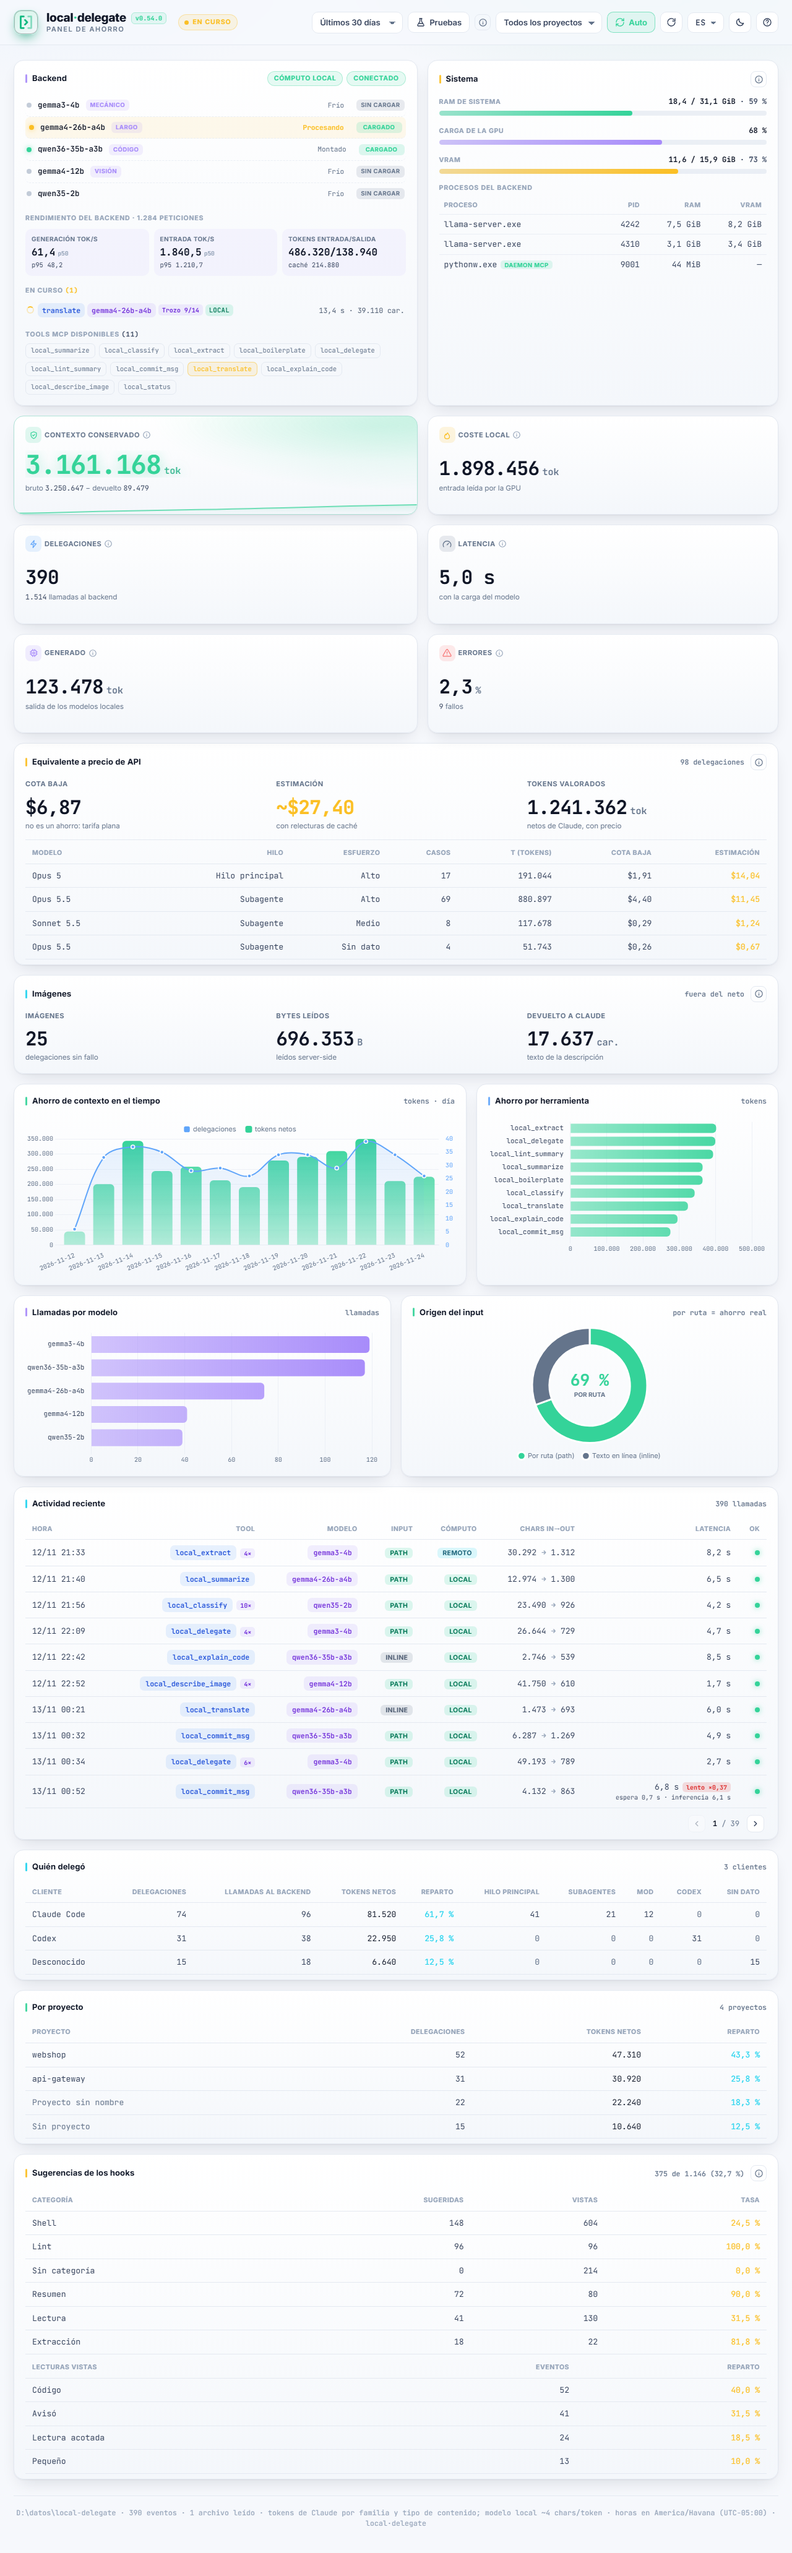
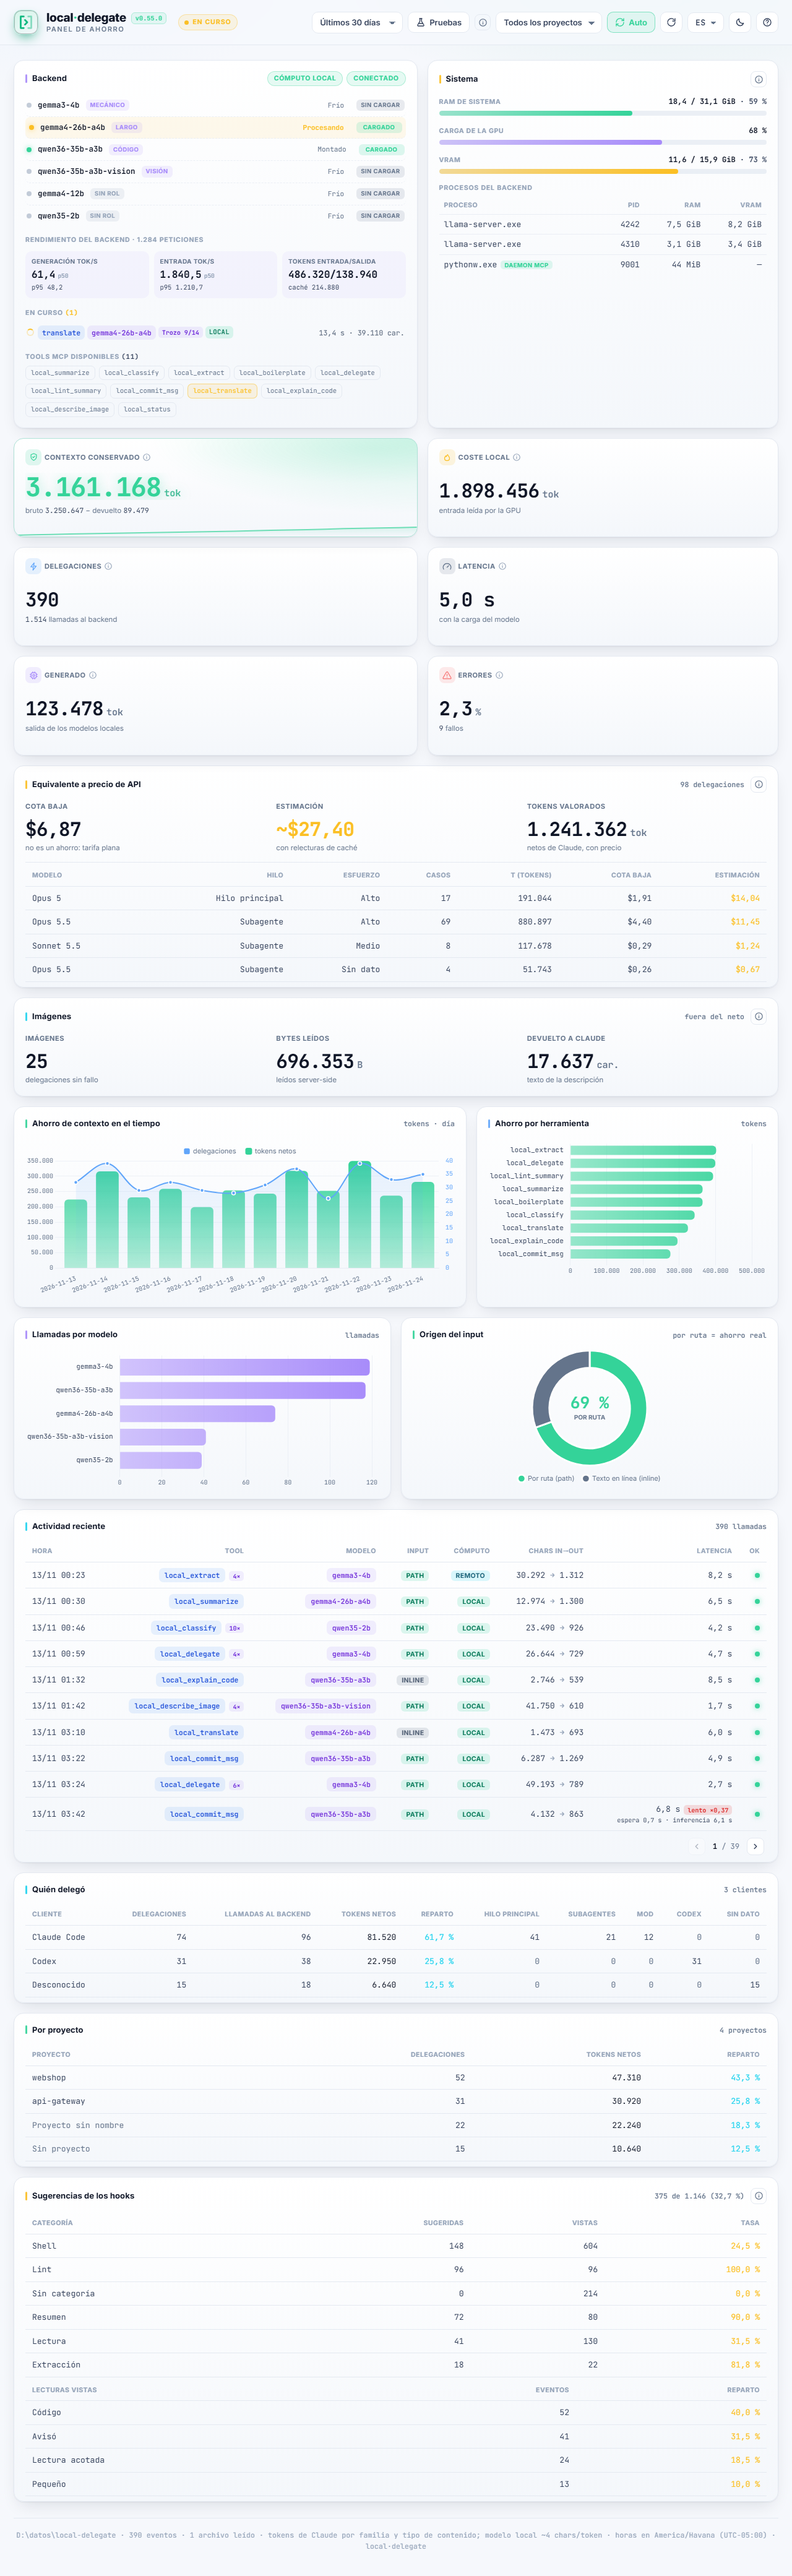
chore: release v0.55.0 (#723)
* chore: release v0.55.0

- Versión 0.55.0 en pyproject, server.json, plugin y uv.lock; huellas de hooks unidas.
- CHANGELOG: sección [0.55.0] (versión menor: cambia el modelo de visión por
  defecto) con cómo migrar.
- Wiki, recetas y frontera del corpus: «desde la 0.54.1» pasa a 0.55.0, la
  versión que de verdad trae el cambio de visión.
- Capturas del panel regeneradas con la 0.55.0.
- SDD: cerrados vision-default-qwen36 y codex-hooks-powershell;
  codex-session-attribution y codex-read-summary-write-guard siguen esperando
  la prueba real con Codex.

* test(locate): cada ronda de cpu_growth mide al menos 0,2 s de CPU

En el runner de Windows del #723 el lado pequeño midió 3 tics del reloj de 15,6 ms con 10 repeticiones fijas: un tic de error era un tercio de la medida y un coste lineal salió con crecimiento 30 (tope 25). Ahora cada ronda repite hasta gastar 0,2 s de CPU (~13 tics). Control: una función cuadrática sigue dando más de 60.

* test(locate): cpu_growth alterna pequeño y grande por ronda y se queda con el menor cociente

Con la carga de los otros workers de pytest, los runners de Windows y Ubuntu del #723 dieron 27-40 para costes que en la PC miden 10-12. Ahora cada una de 5 rondas mide los dos lados seguidos y gana el cociente más bajo; el tope pasa de 25 a 33, la media geométrica entre lineal (~10) y cuadrático (~100). Control: una función cuadrática da 105.

* test(locate): la línea hostil mide de 20 000 a 200 000 caracteres
[…]

diff --git a/tests/linear_cost.py b/tests/linear_cost.py
@@ -3,9 +3,17 @@
 An absolute ceiling in seconds measures the runner: the same code took 0.5 s of CPU on the dev PC
 and 1.7 s on a CI runner. The ratio between the CPU time of a large input and that of one ten times
 smaller does not depend on the runner: about 10 when the cost is linear, about 100 when it is
-quadratic. Each side is the best of several rounds, because another process on the same core
-inflates one round, never all; the small side runs several times per round so that the coarse
-clock of Windows (15.6 ms) does not decide the ratio.
+quadratic.
+
+How the ratio is taken, after the CI of #723 gave 27 to 40 for costs that measure 10 to 12 on the
+dev PC (Windows and Ubuntu runners, with the other pytest workers on the same cores):
+
+- each round measures the small input and then the large one, so both sides see the same load,
+  and the round with the lowest ratio wins: load inflates one round, never all, and a quadratic
+  cost gives about 100 in every round;
+- each side repeats its input until it has spent `MIN_ROUND_SECONDS` of CPU, so that the coarse
+  clock of Windows (15.6 ms) does not decide the ratio: with a fixed 10 repeats the small side
+  measured 3 ticks and one tick of error was a third of it.
 """
 
 from __future__ import annotations
@@ -14,29 +22,35 @@ import time
 from collections.abc import Callable
 
 SIZE_RATIO = 10
-# linear gives ~10 (a bit more for the caches of a larger input); quadratic gives ~100
-MAX_GROWTH = 25.0
+# linear gives ~10 (a bit more for the caches of a larger input); quadratic gives ~100. The
+# ceiling is their geometric mean, so a loaded runner has the same margin as a quadratic regression.
+MAX_GROWTH = 33.0
+# at least ~13 ticks of the Windows clock per round, so one tick is under 8 % of the measure
+MIN_ROUND_SECONDS = 0.2
 
 
-def _best_cpu(run: Callable[[], object], repeats: int, rounds: int) -> float:
-    best = float("inf")
-    for _ in range(rounds):
-        started = time.process_time()
-        for _ in range(repeats):
-            run()
-        best = min(best, (time.process_time() - started) / repeats)
-    return best
+def _cpu_per_run(run: Callable[[], object]) -> float:
+    count = 0
+    started = time.process_time()
+    while True:
+        run()
+        count += 1
+        elapsed = time.process_time() - started
+        if elapsed >= MIN_ROUND_SECONDS:
+            return elapsed / count
 
 
 def cpu_growth(
     run_small: Callable[[], object],
     run_big: Callable[[], object],
     *,
-    rounds: int = 3,
-    small_repeats: int = 10,
+    rounds: int = 5,
 ) -> tuple[float, float, float]:
-    """(CPU of one small run, CPU of one big run, big / small), each the best of `rounds`."""
+    """(CPU of one small run, CPU of one big run, big / small) of the round with the lowest ratio."""
     run_small()  # warm up: imports and compiled regexes do not count on either side
-    small = _best_cpu(run_small, small_repeats, rounds)
-    big = _best_cpu(run_big, 1, rounds)
-    return small, big, big / small
+    measured = []
+    for _ in range(rounds):
+        small = _cpu_per_run(run_small)
+        big = _cpu_per_run(run_big)
+        measured.append((small, big, big / small))
+    return min(measured, key=lambda m: m[2])

diff --git a/tests/test_corpus.py b/tests/test_corpus.py
@@ -371,7 +371,7 @@ def test_an_undeclared_model_change_is_still_an_error(monkeypatch):
     Control: without the declaration the same difference is an error again."""
     notices: list[str] = []
     assert build.check_versioned(DESTINATION, notices=notices) == []
-    assert any("modelo por defecto de la 0.54.1" in n for n in notices), notices
+    assert any("modelo por defecto de la 0.55.0" in n for n in notices), notices
     monkeypatch.setattr(build, "MODEL_BOUNDARIES", {})
     errors = build.check_versioned(DESTINATION)
     assert "production_config ya no coincide con config.py" in errors

diff --git a/tests/test_locate_hostile_input.py b/tests/test_locate_hostile_input.py
@@ -27,7 +27,9 @@ HOSTILE_UNITS = [
     ("unit", "name"), [(u, n) for _, u, n in HOSTILE_UNITS], ids=[h[0] for h in HOSTILE_UNITS]
 )
 def test_a_hostile_line_costs_linearly(unit, name):
-    small_size = 5_000
+    # 20 000 and not 5 000: a 5 KB line fits the L1 cache of a CI runner and the 50 KB one does
+    # not, so there the ratio measured the cache (27-45 in #723) instead of the cost (10 here).
+    small_size = 20_000
     small_text = unit * (small_size // len(unit))
     big_text = unit * (small_size * SIZE_RATIO // len(unit))
     small, big, growth = cpu_growth(

diff --git a/scripts/build_corpus.py b/scripts/build_corpus.py
@@ -734,7 +734,7 @@ _PROMPT_BOUNDARY_FIELDS = frozenset({"system", "max_tokens"})
 # regeneran (sus respuestas se midieron con el modelo viejo) y la diferencia se dice como aviso.
 # vision-default-qwen36 (#699): el rol `vision` pasa a Qwen3.6 35B-A3B con `--mmproj`.
 MODEL_BOUNDARIES: dict[str, dict[str, tuple[str, str]]] = {
-    "0.54.1": {"vision": ("gemma4-12b", "qwen36-35b-a3b-vision")},
+    "0.55.0": {"vision": ("gemma4-12b", "qwen36-35b-a3b-vision")},
 }
 
 

diff --git a/docs/wiki/Codex-capabilities.md b/docs/wiki/Codex-capabilities.md
@@ -25,13 +25,13 @@ entrada del modelo, pero ninguna fila se da por buena en Desktop.
 | --- | --- | --- | --- | --- |
 | Servidor MCP | entrada en `~/.claude.json` | `[mcp_servers.local-delegate]` en `~/.codex/config.toml` | implementado, configurado, cargado | `install.codex_mcp_block`; `doctor` (`scaffold.mcp_codex`); Codex arranca el servidor y, con las tools directas, las pone en la entrada del modelo (`codex debug prompt-input`, abajo); sin ellas quedan tras `tool_search` |
 | Instrucciones | bloque en `CLAUDE.md` y skill | bloque en `~/.codex/AGENTS.md` | implementado, configurado | `install`, componente `memory` |
-| Hooks | plugin `local-delegate@local-delegate` | `~/.codex/hooks.json`: cuatro hooks, `UserPromptSubmit` (`codex-prompt`), `SubagentStart` (`codex-subagent-start`) y dos de `PreToolUse` (`codex-tool-guard` sobre shell, `apply_patch` y lecturas MCP; `codex-mcp-call` sobre las tools de local-delegate) | implementado, configurado (corren solo tras aprobarlos en `/hooks`); cargado y probado quedan para la prueba en vivo | [Hooks de Codex](Integration-install.md#hooks-de-codex), `codex_hooks.SPECS`; `doctor` dice cuántos están aprobados y cuándo despachó cada uno |
+| Hooks | plugin `local-delegate@local-delegate` | `~/.codex/hooks.json`: cuatro hooks, `UserPromptSubmit` (`codex-prompt`), `SubagentStart` (`codex-subagent-start`) y dos de `PreToolUse` (`codex-tool-guard` sobre shell, `apply_patch` y lecturas MCP; `codex-mcp-call` sobre las tools de local-delegate) | implementado, configurado (corren solo tras aprobarlos en `/hooks`), cargado y probado (desde la 0.55.0, #718: Codex CLI 0.171 en Windows despacha los cuatro) | [Hooks de Codex](Integration-install.md#hooks-de-codex), `codex_hooks.SPECS`; `doctor` dice cuántos están aprobados y cuándo despachó cada uno |
 | Tools fijadas | `mod/pinned-tools.js`: 4 tools con `isDeferred: false` | `omit_tools_from = ["deferred"]` en la tabla del servidor; **todas** las tools del servidor, no una a una | implementado (opcional), configurado, cargado (`codex debug prompt-input`); el efecto en una sesión real queda para la prueba en vivo | ver [Tools directas](#tools-directas-en-vez-de-tool_search) |
 | Comandos sin modelo | `mod/commands.js`: `/local-summarize`, `/local-commit`, `/local-lint` | no hay slash commands de usuario; solo `!comando` (shell sin turno del modelo) | no disponible | ver [Comandos sin modelo](#comandos-sin-modelo) |
 | Banda de estado | `mod/status.js`: `ui.render` sobre el prompt | `/statusline` y `tui.status_line`: lista de campos fijos de Codex | no disponible | ver [Barra de estado](#barra-de-estado) |
 | Panel de ahorro | panel web del daemon | el mismo panel web (`http://127.0.0.1:9393/`) | implementado (no depende del cliente) | [Savings & metrics](Savings-and-metrics.md) |
-| Atribución por sesión | hook `record_call.py` (`PreToolUse`) | `_meta` de cada llamada MCP (`callId`, `sessionId`) más la nota del hook `codex-mcp-call` (`PreToolUse`) | implementado, configurado (desde la 0.53.0); probado queda para la prueba en vivo | #669; [Hooks de Codex](Integration-install.md#hooks-de-codex) («Telemetría global y atribución por sesión»); [Savings & metrics](Savings-and-metrics.md#delegaciones-de-codex) |
-| Lectura automática y guard de escritura | mod de lectura y hooks de lectura | hook `codex-tool-guard` (`PreToolUse` con `permissionDecision: "deny"`) sobre shell, `apply_patch` y lecturas MCP | implementado, configurado (desde la 0.53.0); probado queda para la prueba en vivo con el centinela | #670; [Resumen de lecturas y guard de escritura](Integration-install.md#resumen-de-lecturas-y-guard-de-escritura-en-codex) |
+| Atribución por sesión | hook `record_call.py` (`PreToolUse`) | `_meta` de cada llamada MCP (`callId`, `sessionId`) más la nota del hook `codex-mcp-call` (`PreToolUse`) | implementado, configurado (desde la 0.53.0), probado con Codex CLI 0.171 en Windows (0.55.0) | #669; [Hooks de Codex](Integration-install.md#hooks-de-codex) («Telemetría global y atribución por sesión»); [Savings & metrics](Savings-and-metrics.md#delegaciones-de-codex) |
+| Lectura automática y guard de escritura | mod de lectura y hooks de lectura | hook `codex-tool-guard` (`PreToolUse` con `permissionDecision: "deny"`) sobre shell, `apply_patch` y lecturas MCP | implementado, configurado (desde la 0.53.0), probado con el centinela en Codex CLI 0.171 en Windows (0.55.0: lectura entera resumida, escritura por shell rechazada hasta leer un tramo literal, #724) | #670; [Resumen de lecturas y guard de escritura](Integration-install.md#resumen-de-lecturas-y-guard-de-escritura-en-codex) |
 
 ## Tools directas en vez de `tool_search`
 

diff --git a/CHANGELOG.md b/CHANGELOG.md
@@ -6,7 +6,11 @@ y el proyecto usa [Versionado Semántico](https://semver.org/lang/es/).
 
 ## [Unreleased]
 
+## [0.55.0] - 2026-11-23
+
 ### Cambiado
+
+Versión menor: cambia el modelo de visión por defecto (#699, #721).
 
 **Cómo migrar.** Si tu catálogo de llama-swap no tiene la entrada `qwen36-35b-a3b-vision`, pon
 `LOCAL_DELEGATE_MODEL_VISION=gemma4-12b` (o añade la entrada: ver `docs/recipes/llama-swap-vision.md`).
@@ -67,6 +71,20 @@ el modelo nuevo.
   línea con la forma vieja. Tras `local-delegate update` hay que aprobar los hooks otra vez en
   `/hooks`, porque la línea cambió. El plazo de las tools MCP de Codex ya es de 300 s por defecto,
   así que `install` sigue sin escribir `tool_timeout_sec`.
+- **Test inestable en Windows: `test_a_hostile_line_costs_linearly` mide el coste, no el reloj**
+  (#727). Comparaba el tiempo de pared de una línea hostil corta y otra larga, y en Windows el
+  reloj y la caché lo hacían fallar de vez en cuando. Ahora mide tiempo de CPU, cada ronda dura al
+  menos 0,2 s, alterna pequeño y grande, se queda con el menor cociente y la línea va de 20 000 a
+  200 000 caracteres. Solo cambia el test.
+
+### Documentación
+
+- La matriz de capacidades de Codex (`docs/wiki/Codex-capabilities.md`) pasa a «probado» en las
+  filas de hooks, atribución por sesión y resumen de lecturas con guard de escritura, tras la prueba
+  con Codex CLI 0.171 real en Windows (#669, #670, #718, #724).
+- Cerrados los SDD que quedaban abiertos de jornadas anteriores (`codex-session-attribution` y tres
+  más) y los de esta versión; `delegacion-precisa-y-fiable` sigue abierto hasta el corte de P-4
+  (#725, #726).
 
 ## [0.54.0] - 2026-11-23
 
@@ -5461,7 +5479,8 @@ los ficheros de datos. Lo que lee el usuario sigue en español.
 - Empaquetado para PyPI (`local-delegate-mcp`) ejecutable con `uvx`; `server.json` para el
   registro oficial de MCP.
 
-[Unreleased]: https://github.com/ZahiriNatZuke/local-delegate/compare/v0.54.0...HEAD
+[Unreleased]: https://github.com/ZahiriNatZuke/local-delegate/compare/v0.55.0...HEAD
+[0.55.0]: https://github.com/ZahiriNatZuke/local-delegate/compare/v0.54.0...v0.55.0
 [0.54.0]: https://github.com/ZahiriNatZuke/local-delegate/compare/v0.53.0...v0.54.0
 [0.53.0]: https://github.com/ZahiriNatZuke/local-delegate/compare/v0.52.0...v0.53.0
 [0.52.0]: https://github.com/ZahiriNatZuke/local-delegate/compare/v0.51.0...v0.52.0

diff --git a/.sdd/changes/codex-read-summary-write-guard/verification.md b/.sdd/changes/codex-read-summary-write-guard/verification.md
@@ -60,3 +60,20 @@ Without a declaration, list what was run. Never invent a command. -->
 - Pasa: `cat` de prosa grande bloqueado y sustituido por el resumen; el texto literal no entra al transcript; `apply_patch` sin lectura literal rechazado; tras `Get-Content -TotalCount 40`, aceptado (estado `range [1, 40]`).
 - Falla: una escritura de PowerShell con `[System.IO.File]::WriteAllText` y la ruta en una variable (`$p`) no la ve `write_targets`; el cambio pasó sin lectura literal (#724). Este SDD sigue en `result-review` hasta que se cierre #724.
 - El criterio «no sabe la palabra rara» no discrimina con el centinela de párrafos repetidos: el resumen la menciona porque es lo único distinto; el que discrimina es la ausencia del texto literal en el transcript.
+
+## Prueba con Codex real (2026-11-23, 19:33 a 19:35 hora de Uruguay)
+
+Codex CLI 0.171.0 en Windows sobre el `~/.codex` real, `main` en `92839abd` instalado con
+`uv tool install --force --no-cache ".[llamaswap]"`, `doctor` con los hooks de Codex aprobados 4 de 4,
+ventana `test-window` `codex-guard-shell`. Centinela `.md` de 201 líneas (~20 KB) en una carpeta
+temporal; `codex exec --json -c 'sandbox_mode="workspace-write"'` y `codex exec resume` en la misma
+sesión:
+
+| Paso | Esperado | Visto |
+| --- | --- | --- |
+| `cat centinela.md` | denegado con el resumen como motivo | `Command blocked by PreToolUse hook: Resumen de … hecho por el modelo local …` |
+| `[System.IO.File]::WriteAllText($p, …)` con `$p='centinela.md'` | rechazado | `… solo se ha leido resumido: antes de modificarlo, lee literal el tramo …`; fichero sin cambiar |
+| control: `WriteAllText('otro.md', …)` | pasa | exit 0, fichero escrito |
+| `Get-Content centinela.md -TotalCount 40` y luego el mismo `WriteAllText` | pasa | exit 0; primera línea cambiada |
+
+Ventana cerrada y centinela borrado tras la prueba.

diff --git a/.sdd/changes/codex-guard-shell-writes/verification.md b/.sdd/changes/codex-guard-shell-writes/verification.md
@@ -44,3 +44,20 @@ Without a declaration, list what was run. Never invent a command. -->
 - Límites conocidos (documentados en la wiki): rutas que no se saben sin ejecutar, `-EncodedCommand`, `StreamWriter`, `[IO.File]::Open` con modo, escrituras de .NET anidadas, `perl -i`, `python -c`, `dd`, `truncate`; los borrados no se tocan.
 - La revisión de dos jueces (review.md) llevó a 7 arreglos con sus tests; dos mutantes nuevos (lecturas envueltas canalizadas, comillas dobles) tumbados por sus tests.
 - El cambio de `herestring_spans` toca `read_classifier` (Claude Code) sin cambiar su resultado: test de equivalencia con 5 000 textos aleatorios.
+
+## Prueba con Codex real (2026-11-23, 19:33 a 19:35 hora de Uruguay)
+
+Codex CLI 0.171.0 en Windows sobre el `~/.codex` real, `main` en `92839abd` instalado con
+`uv tool install --force --no-cache ".[llamaswap]"`, `doctor` con los hooks de Codex aprobados 4 de 4,
+ventana `test-window` `codex-guard-shell`. Centinela `.md` de 201 líneas (~20 KB) en una carpeta
+temporal; `codex exec --json -c 'sandbox_mode="workspace-write"'` y `codex exec resume` en la misma
+sesión:
+
+| Paso | Esperado | Visto |
+| --- | --- | --- |
+| `cat centinela.md` | denegado con el resumen como motivo | `Command blocked by PreToolUse hook: Resumen de … hecho por el modelo local …` |
+| `[System.IO.File]::WriteAllText($p, …)` con `$p='centinela.md'` | rechazado | `… solo se ha leido resumido: antes de modificarlo, lee literal el tramo …`; fichero sin cambiar |
+| control: `WriteAllText('otro.md', …)` | pasa | exit 0, fichero escrito |
+| `Get-Content centinela.md -TotalCount 40` y luego el mismo `WriteAllText` | pasa | exit 0; primera línea cambiada |
+
+Ventana cerrada y centinela borrado tras la prueba.

diff --git a/docs/recipes/llama-swap-blackwell.md b/docs/recipes/llama-swap-blackwell.md
@@ -24,7 +24,7 @@ VRAM real medida (ctx 8k, incluye ~1,5 GB de Windows): `gemma3-4b` ~4,8 GB · `l
 | `LOCAL_DELEGATE_MODEL_MECHANICAL` | `gemma3-4b` | Gemma 3 4B Q4_K_M |
 | `LOCAL_DELEGATE_MODEL_LONG` | `gemma4-26b-a4b` | Gemma 4 26B-A4B (MoE, con `-ncmoe`) |
 | `LOCAL_DELEGATE_MODEL_CODE` | `qwen36-35b-a3b` | Qwen3.6 35B-A3B (MoE, con `-ncmoe`) |
-| `LOCAL_DELEGATE_MODEL_VISION` | `qwen36-35b-a3b-vision` | Qwen3.6 35B-A3B + `--mmproj` (desde la 0.54.1; ligera: `gemma4-12b`, Gemma 4 12B, con `LOCAL_DELEGATE_MODEL_VISION=gemma4-12b`) |
+| `LOCAL_DELEGATE_MODEL_VISION` | `qwen36-35b-a3b-vision` | Qwen3.6 35B-A3B + `--mmproj` (desde la 0.55.0; ligera: `gemma4-12b`, Gemma 4 12B, con `LOCAL_DELEGATE_MODEL_VISION=gemma4-12b`) |
 
 Son los defaults del paquete desde la 0.28.0: con estos ids no necesitas configurar nada.
 `local-delegate init-llamaswap` agrupa esas entradas de tu `config.yaml` (no las crea). **El `config.yaml` de abajo y las

diff --git a/docs/wiki/Tools.md b/docs/wiki/Tools.md
@@ -659,7 +659,7 @@ Cuatro perfiles, todos cambiables por entorno (ver [Configuration](Configuration
 | código | `LOCAL_DELEGATE_MODEL_CODE` | `qwen36-35b-a3b` | boilerplate, commit-msg, explicar código |
 | visión | `LOCAL_DELEGATE_MODEL_VISION` | `qwen36-35b-a3b-vision` (ligera: `gemma4-12b`) | describir imágenes |
 
-Visión usa por defecto Qwen3.6 35B-A3B con `--mmproj` desde la 0.54.1: en la medición de #699 no
+Visión usa por defecto Qwen3.6 35B-A3B con `--mmproj` desde la 0.55.0: en la medición de #699 no
 inventó ningún defecto de layout (gemma4-12b, 5 de 9). En una máquina con menos VRAM, `LOCAL_DELEGATE_MODEL_VISION=gemma4-12b`.
 
 El salto de mecánico a largo es **automático** y se decide sondeando el tamaño: bytes del archivo

diff --git a/docs/wiki/Troubleshooting.md b/docs/wiki/Troubleshooting.md
@@ -108,7 +108,7 @@ Los ids de modelo configurados no existen en tu backend. Ajusta
 `llama31-8b`, `qwen25-coder-14b` o `qwen3-vl-8b`, renómbralos allí o fija las variables a los ids
 que tengas.
 
-**Si `local_describe_image` empezó a fallar al actualizar a la 0.54.1:** el modelo de visión por
+**Si `local_describe_image` empezó a fallar al actualizar a la 0.55.0:** el modelo de visión por
 defecto pasó de `gemma4-12b` a `qwen36-35b-a3b-vision` (Qwen3.6 35B-A3B con `--mmproj`). Si tu
 catálogo no tiene esa entrada, pon `LOCAL_DELEGATE_MODEL_VISION=gemma4-12b` o añádela (ver la receta
 `docs/recipes/llama-swap-vision.md`). `doctor` lo avisa en «modelo de cada rol».

diff --git a/.sdd/changes/codex-read-summary-write-guard/review.md b/.sdd/changes/codex-read-summary-write-guard/review.md
@@ -54,3 +54,6 @@ modelo (`summarizable` + `protected` + `path_guard` del daemon), inyección por 
 - 2026-11-23: F1 a F7, F9 y F10 (#706 y #707) quedan arreglados con tests por el SDD
   `.sdd/changes/codex-guard-fixes/`, que también precisa REQ-002, REQ-005 y REQ-006 de esta spec.
   Este SDD sigue en `result-review`: su conformidad espera la prueba con Codex real.
+- 2026-11-23 19:35 (hora de Uruguay): prueba con Codex real hecha (`verification.md`, «Prueba con
+  Codex real»); el hueco de las escrituras de shell (#724) lo cierra el SDD
+  `.sdd/changes/codex-guard-shell-writes/`. Conformidad aprobada.
